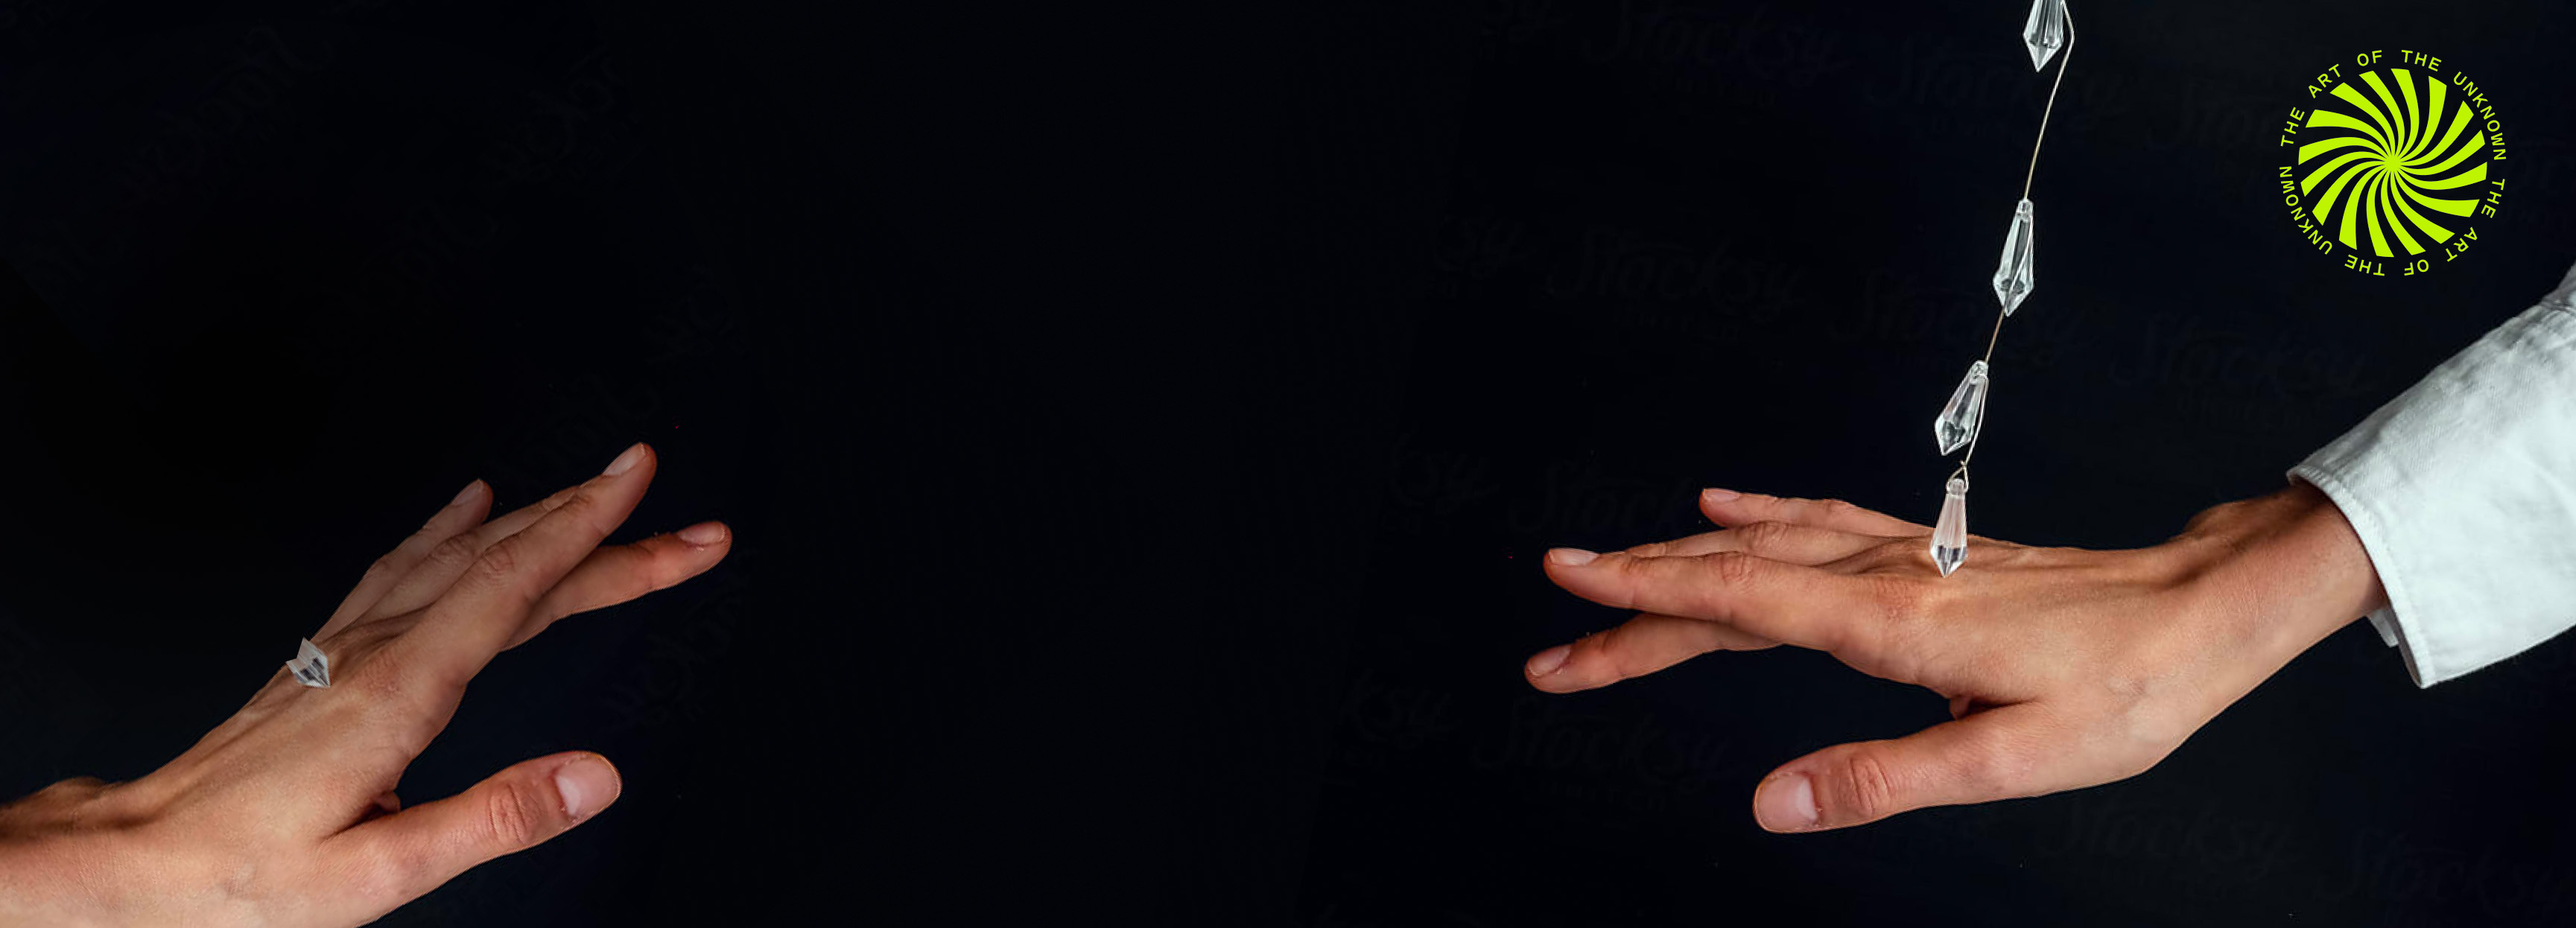
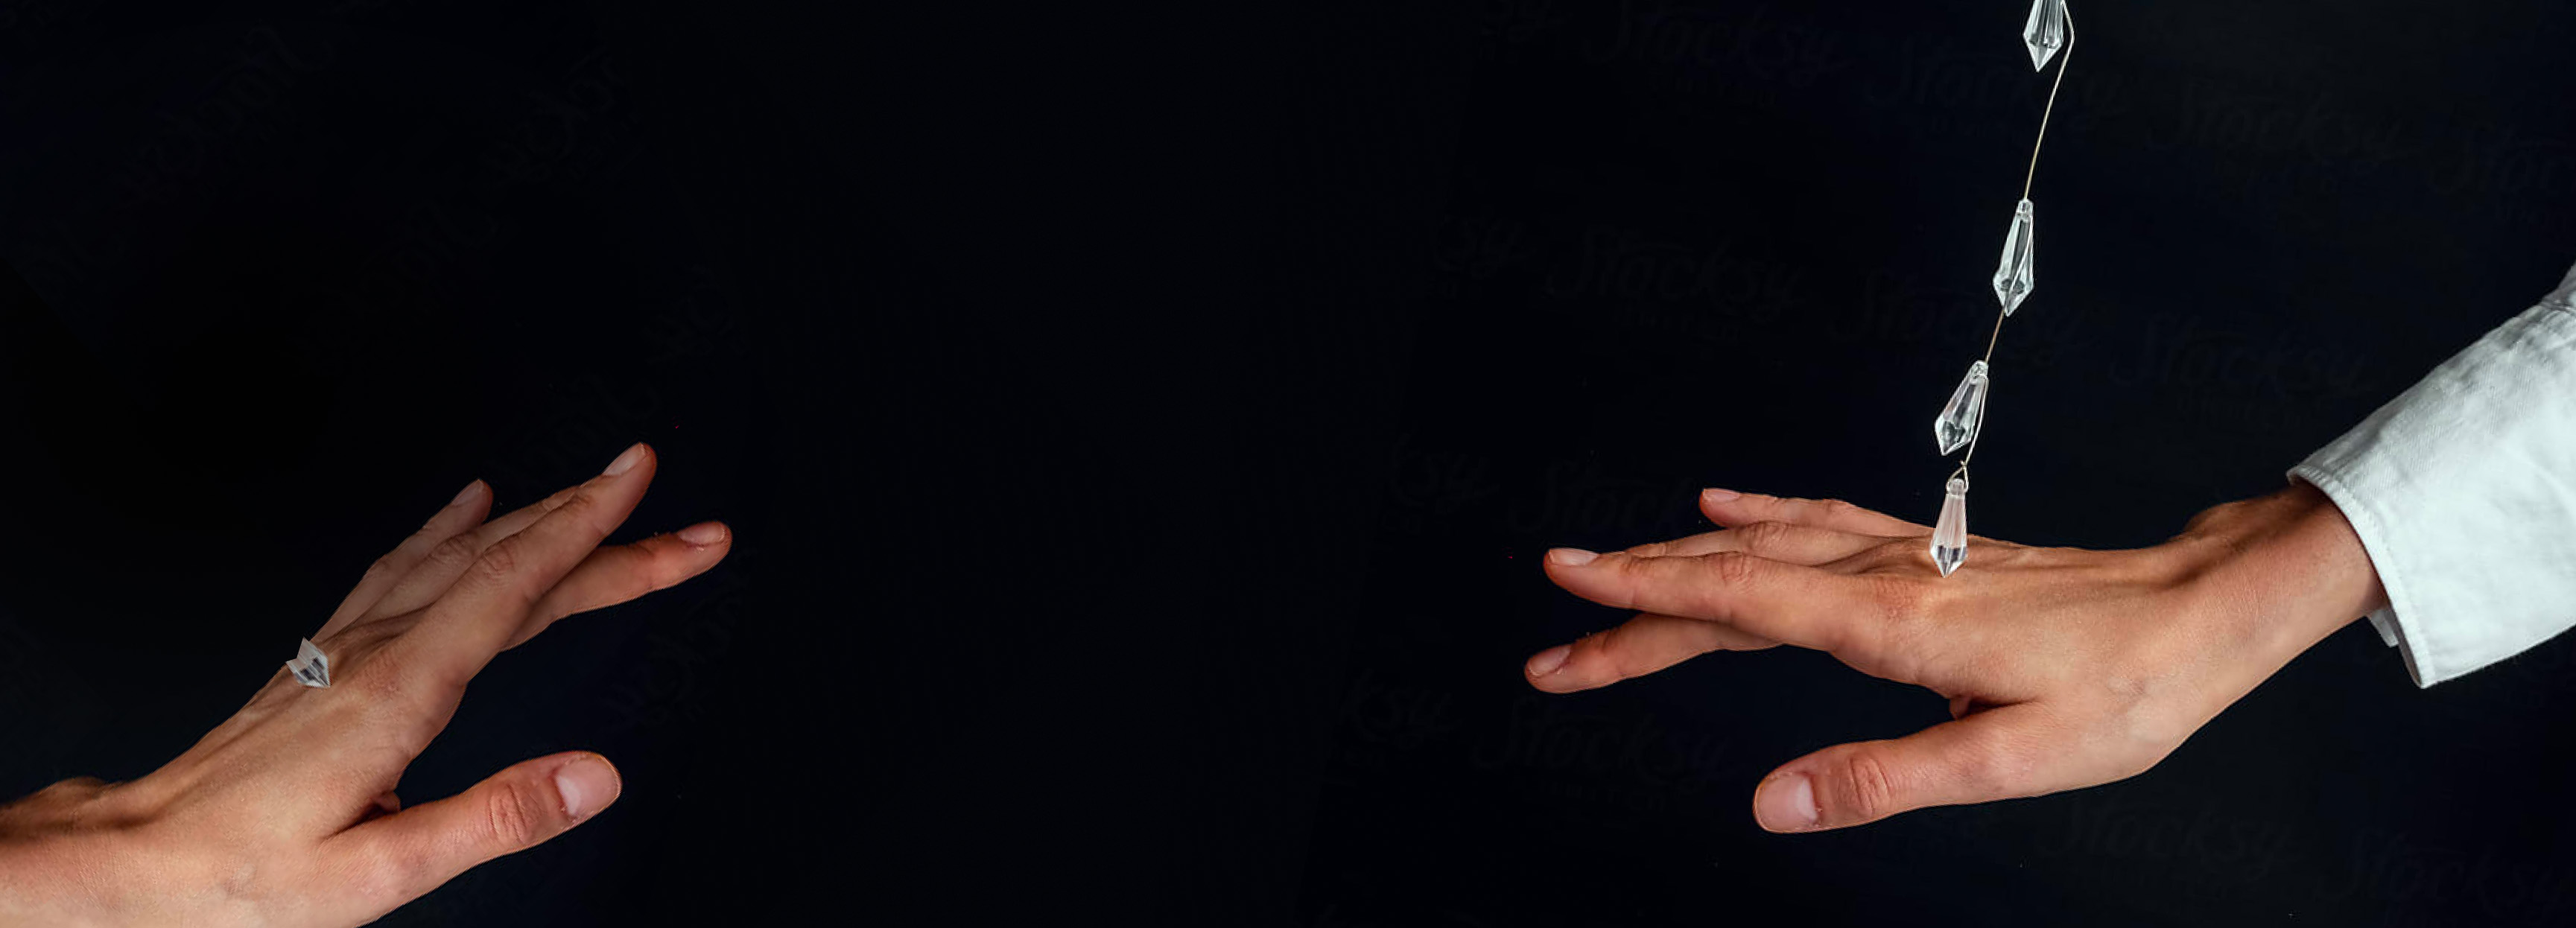
- Small update to hero style - Add brand element option to hero - Add some brand element svgs

Changed region(s): [[0.8745, 0.061, 0.9682, 0.305]]

diff --git a/src/scripts/components/Hero.tsx b/src/scripts/components/Hero.tsx
@@ -1,15 +1,39 @@
-import classnames from 'classnames';
+import classnames from "classnames";
+import SVGViewer from "./SVGViewer";
 
-import LightHeroBG from './CollectionHeroBG.svg.tsx';
-import DarkHeroBG from '../../images/hero--dark-background.jpg';
-import LeftAlignedBG from '../../images/hero--left-aligned-background.jpg'
+import LightHeroBG from "./CollectionHeroBG.svg.tsx";
+import DarkHeroBG from "../../images/hero--dark-background.jpg";
+import LeftAlignedBG from "../../images/hero--left-aligned-background.jpg";
+import Placeholder from "../../images/icons/ico-placeholder.svg";
 
 interface HeroProps {
-  title?: string, breadcrumbs?: null | JSX.Element, description?: string, style?: string, alignment?: string, hasCTA?: boolean, headingLevel?: string, buttonText?: string, hasBackground: boolean,
+  title?: string;
+  breadcrumbs?: null | JSX.Element;
+  description?: string;
+  style?: string;
+  alignment?: string;
+  hasCTA?: boolean;
+  headingLevel?: string;
+  buttonText?: string;
+  hasBackground?: boolean;
+  hasBrandElement?: boolen
+  brandElement?: null;
 }
 
-const Hero = ({ title = "Murphy's Magic", breadcrumbs = null, description = "Where the fun comes free", style="light", alignment="center", hasCTA=false, headingLevel="h1", buttonText="Button text", hasBackground=false}: HeroProps) => {
-  const HeadingTag = headingLevel as keyof JSX.IntrinsicElements; 
+const Hero = ({
+  title = "Murphy's Magic",
+  breadcrumbs = null,
+  description = "Where the fun comes free",
+  style = "light",
+  alignment = "center",
+  hasCTA = false,
+  headingLevel = "h1",
+  buttonText = "Button text",
+  hasBackground = false,
+  hasBrandElement = false,
+  brandElement = Placeholder
+}: HeroProps) => {
+  const HeadingTag = headingLevel as keyof JSX.IntrinsicElements;
 
   let backgroundComponent = null;
 
@@ -23,63 +47,81 @@ const Hero = ({ title = "Murphy's Magic", breadcrumbs = null, description = "Whe
         height: 973,
         loading: "lazy",
       };
-      
-      if(alignment ==="left") {
+
+      if (alignment === "left") {
         bgProps.src = LeftAlignedBG;
         bgProps.alt = "Bridging ordinary";
       }
 
-      backgroundComponent = <img {...bgProps}/>;    
+      backgroundComponent = <img {...bgProps} />;
     } else {
       backgroundComponent = <LightHeroBG />;
     }
   }
 
-  return <>
-   
-   <section className={classnames('hero hero--page', {
-      [`hero--${style}`]: style,
-      [`hero--align-${alignment}`] : alignment
-    })}>
-      <div className="hero__inner">
+  return (
+    <>
+      <section
+        className={classnames("hero hero--page", {
+          [`hero--${style}`]: style,
+          [`hero--align-${alignment}`]: alignment,
+        })}
+      >
+        <div className="hero__inner">
+          {hasBackground &&
+            <div className="hero__background">{backgroundComponent}</div>
+          }
 
-      <div className="hero__background">
-        {backgroundComponent}
-      </div>
-        
-        <div className="container">
-          <div className="hero__content">
-            <HeadingTag className="hero__title typography-heading typography-heading-lg">
-              {title}
-            </HeadingTag>
+          {alignment ==="left" && hasBrandElement && 
+            <SVGViewer
+              svgClass={"hero__brand-element"}
+              filePath={brandElement ? brandElement : Placeholder}
+            />
+          }
 
-            {
-              breadcrumbs &&
-              <div className="hero__breadcrumbs">
-                {breadcrumbs}
-              </div>
+          <div className="container">
+            {alignment ==="center" && hasBrandElement && 
+              <SVGViewer
+                svgClass={"hero__brand-element"}
+                filePath={brandElement ? brandElement : Placeholder}
+              />
             }
 
-            {description && <p className="hero__description"> {description} </p>}
+            <div className="hero__content">
+              <HeadingTag className="hero__title typography-heading typography-heading-lg">
+                {title}
+              </HeadingTag>
 
-            {hasCTA && (
-              <div className="actions">
-                <a href="#" className={"btn btn--secondary btn--" + style}>
-                  {buttonText}
-                  <span className="btn__icon">
-                    <svg width="19" height="15" viewBox="0 0 19 15" xmlns="http://www.w3.org/2000/svg">
-                    <path d="M18.27 6.63C16.62 6.63 15.18 5.68 13.99 3.8C13.5 3.02 13.15 2.23 12.95 1.71C12.84 1.42 12.76 1.19 12.71 1.02L12.56 0.5L11.6 0.75C11.53 0.77 10.93 0.94 10.93 0.94L10.64 1.02L10.82 1.62C10.88 1.82 10.97 2.09 11.1 2.42C11.33 3.02 11.73 3.94 12.31 4.86C12.74 5.54 13.21 6.13 13.71 6.63H0V8.61H13.72C13.21 9.11 12.74 9.71 12.32 10.38C11.74 11.3 11.34 12.21 11.11 12.82C10.98 13.15 10.89 13.43 10.83 13.62L10.66 14.2L10.94 14.29C10.94 14.29 11.53 14.47 11.62 14.5L12.29 14.67L12.59 14.69L12.73 14.22C12.78 14.06 12.86 13.82 12.97 13.53C13.17 13.01 13.51 12.22 14.01 11.44C15.2 9.56 16.63 8.61 18.29 8.61H18.59V6.63H18.29H18.27Z"></path>
-                    </svg>
-                  </span>
-                </a>
-              </div>
-            )}
+              {breadcrumbs && (
+                <div className="hero__breadcrumbs">{breadcrumbs}</div>
+              )}
 
+              {description && (
+                <p className="hero__description"> {description} </p>
+              )}
+
+              {hasCTA && (
+                <div className="actions">
+                  <a href="#" className={"btn btn--secondary btn--" + style}>
+                    {buttonText}
+                    <span className="btn__icon">
+                      <svg
+                        width="19"
+                        height="15"
+                        viewBox="0 0 19 15"
+                        xmlns="http://www.w3.org/2000/svg"
+                      >
+                        <path d="M18.27 6.63C16.62 6.63 15.18 5.68 13.99 3.8C13.5 3.02 13.15 2.23 12.95 1.71C12.84 1.42 12.76 1.19 12.71 1.02L12.56 0.5L11.6 0.75C11.53 0.77 10.93 0.94 10.93 0.94L10.64 1.02L10.82 1.62C10.88 1.82 10.97 2.09 11.1 2.42C11.33 3.02 11.73 3.94 12.31 4.86C12.74 5.54 13.21 6.13 13.71 6.63H0V8.61H13.72C13.21 9.11 12.74 9.71 12.32 10.38C11.74 11.3 11.34 12.21 11.11 12.82C10.98 13.15 10.89 13.43 10.83 13.62L10.66 14.2L10.94 14.29C10.94 14.29 11.53 14.47 11.62 14.5L12.29 14.67L12.59 14.69L12.73 14.22C12.78 14.06 12.86 13.82 12.97 13.53C13.17 13.01 13.51 12.22 14.01 11.44C15.2 9.56 16.63 8.61 18.29 8.61H18.59V6.63H18.29H18.27Z"></path>
+                      </svg>
+                    </span>
+                  </a>
+                </div>
+              )}
+            </div>
           </div>
         </div>
-      </div>
-    </section>
-  </>
-}
-export default Hero
-
+      </section>
+    </>
+  );
+};
+export default Hero;

diff --git a/src/scripts/pages/Layouts.tsx b/src/scripts/pages/Layouts.tsx
@@ -13,6 +13,10 @@ import CalloutGrid from "../components/CalloutGrid";
 import BrandHeader from "../components/BrandHeader";
 import Hero from "../components/Hero";
 
+// Asset imports
+import Eye from "../../images/icons/ico-magic-eye.svg";
+import Unkown from "../../images/icons/ico-art-of-unkown.svg";
+
 export default function Layouts() {
   return (
     <>
@@ -48,12 +52,16 @@ export default function Layouts() {
         headingLevel="h2"
         buttonText="Apply now"
         hasBackground
+        hasBrandElement
+        brandElement={Unkown}
       />
       <Hero title="Contact Us" description="We're here to help." />
       <Hero
         title="Making magic easy"
         description="Since 1998, our team has dedicated ourselves to making the world a little more wonderful for everyone. If there’s anything you need, or any questions you have, drop us a line, day or night."
         hasBackground
+        hasBrandElement
+        brandElement={Eye}
         style="dark"
         headingLevel="h2"
       />

diff --git a/src/styles/components/hero.css b/src/styles/components/hero.css
@@ -89,6 +89,11 @@
   max-width: 625px;
 }
 
+.hero__brand-element {
+  z-index: 1;
+  margin-bottom: 2rem;
+}
+
 .hero--collection .hero__inner {
   min-height: 454px;
   height: 25vw;
@@ -155,9 +160,22 @@
   line-height: 1.4;
 }
 
+.hero--align-left .hero__brand-element {
+  z-index: 1;
+  margin-bottom: 0;
+  position: absolute;
+  top: 36px;
+  right: 42px;
+  display: none;
+}
+
 @media (min-width: 640px) {
   .hero--align-left .container {
     grid-template-columns: 8fr 4fr; 
+  }
+
+  .hero--align-left .hero__brand-element {
+    display: block;
   }
 }
 
